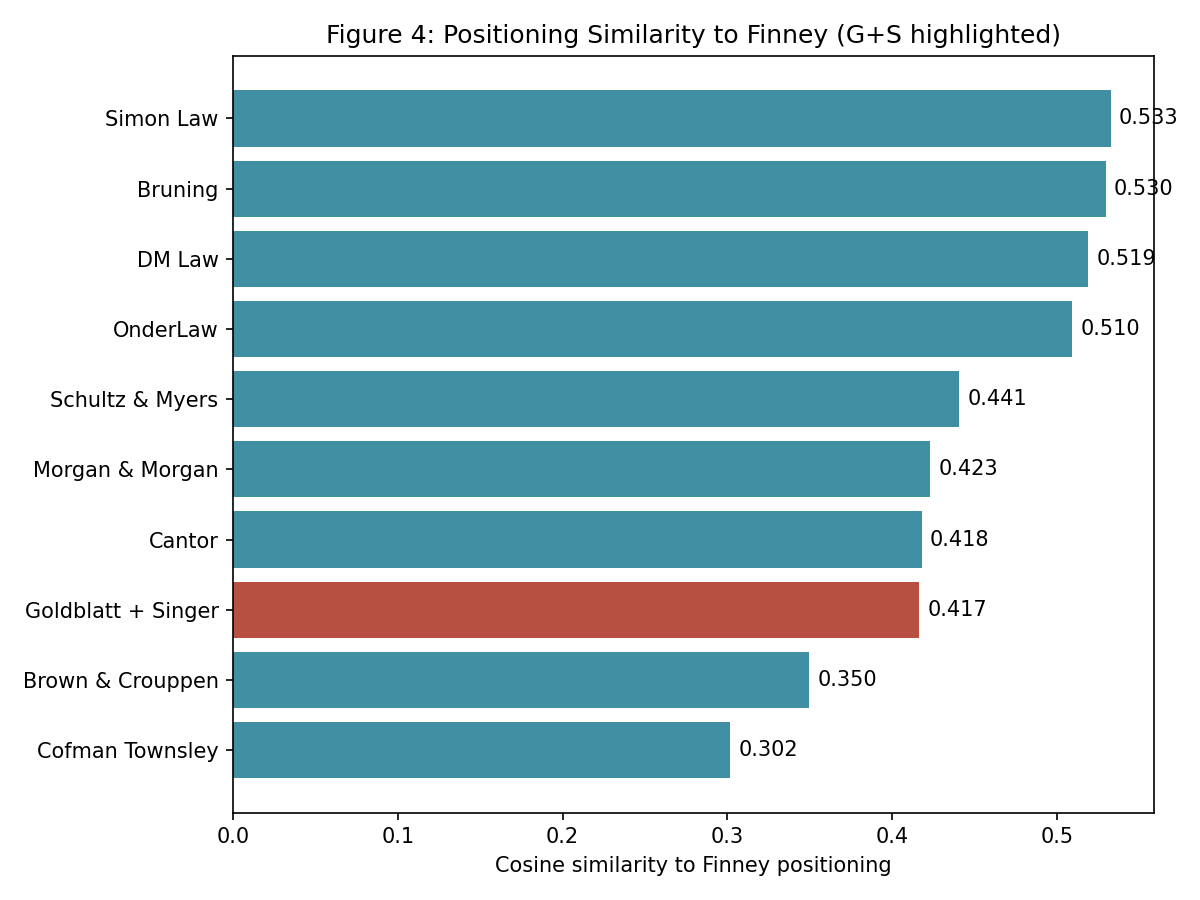
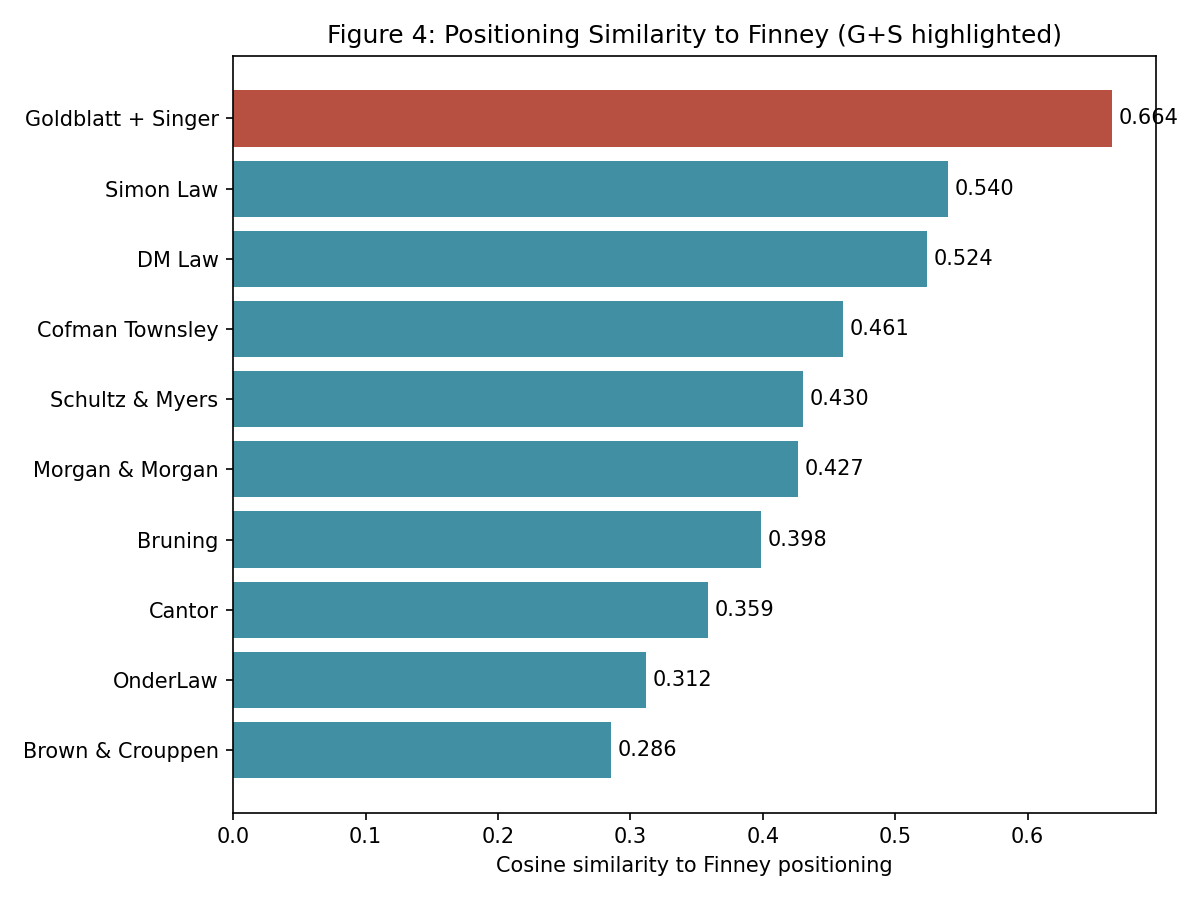
Day 8: Final NLP validation — G+S confirmed as closest positioning competitor
Updated positioning_claim text for all 10 competitors and Finney.
Re-ran embeddings and validation. G+S ranked 1 of 10 (similarity 0.664,
p = 0.0000). Qualitative brief finding statistically confirmed.

diff --git a/src/make_embeddings.py b/src/make_embeddings.py
@@ -33,7 +33,10 @@ finney_positioning = (
     "courtroom readiness, verifiable verdicts, and a deliberately selective, "
     "restrained approach rather than high-volume advertising."
 )
-finney_emb = model.encode([finney_positioning])
+finney_emb = model.encode(["A selective St. Louis personal injury trial firm built around "
+    "three attorneys with explicit former insurance-defense experience, "
+    "verifiable individual trial counts, and a deliberately small caseload "
+    "that signals genuine trial readiness over high-volume settlement practice."])
 np.save(PROC / 'finney_embedding.npy', finney_emb)
 print('Finney embedding shape:', finney_emb.shape)  # expect (1, 384)
 